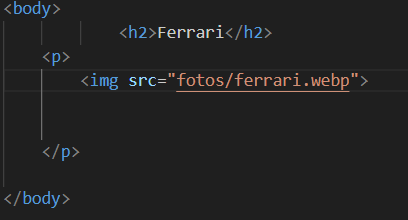
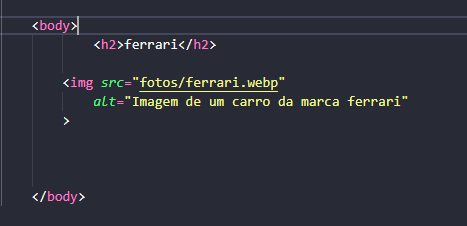
13/04/26
Foram feito modificaçoes com fins de aprimoramento de conteudo como mudança de codigos, explicaçoes e imagens

diff --git a/index.html b/index.html
@@ -43,7 +43,8 @@
 
         <h2>Formataçao de textos</h2>
 
-    <p>  na formataçao se tem 4 principais funçoes. Negrito, texto em italico, underline, errado
+    <p>  na formataçao existem varias funçoes. Negrito(b), texto em italico (i), texto marcado (mark), sublinhado (U), deletado (del), sobrescrito (sup), subscrito (sub) 
+        Essas funçoes estao sendo mostradas mais para fins de conhecimento pois a maioria sera possivel utilizar usando o CSS futuramente...
     <br> <img src="fotos/formataçao de texto.png">
     <br> <img src="fotos/Ex formataçao.png">
 
@@ -85,11 +86,13 @@
 
         <h2>Imagens</h2>
     <p>
-        para se utilizar imagens em um site HTML se usa a tag (img src="") 
-        que diz para o editor de codigo  buscar a imagens desejada no local em que ela esta.Se recomenda sempre ter a imagem baixada para que nao a perca 
+        para se utilizar imagens em um site HTML se usa a tag (img src="")  
+        que diz para o editor de codigo  buscar a imagens desejada no local em que ela esta. E o atributo (alt) serve para mostrar um texto descrevendo a imagem caso algo de errado e a imagem nao apareça
+        Se recomenda sempre ter a imagem baixada para que nao a perca 
     <br> É possivel tambem ajustar o tamanho da imagen,porem é um topico para outro momento
     <br><img src="fotos/imagens .png">
-    <br><img src="fotos/ex imagens .png">
+    <br><img src="fotos/ex imagens .png"> <hr>
+    <br><img src="fotos/EX imagens2.png">
 
 
 

diff --git a/teste.html b/teste.html
@@ -1,0 +1,21 @@
+<!DOCTYPE html>
+<html>
+    <head>
+
+    </head>
+        
+        <body>
+                <h2>ferrari</h2>
+
+            <img src="fotos/ferrari.web"
+                alt="Imagem de um carro da marca ferrari"
+            >
+
+
+
+        </body>
+
+
+
+
+</html>

diff --git a/README.md b/README.md
@@ -1,2 +1,2 @@
 # Projeto-pessoal1
-desenvolvimento do meu primeiro projeto,simples mas com uma funçao de revisar 
+desenvolvimento do meu primeiro projeto,simples mas com uma funçao de revisao de conteudo
